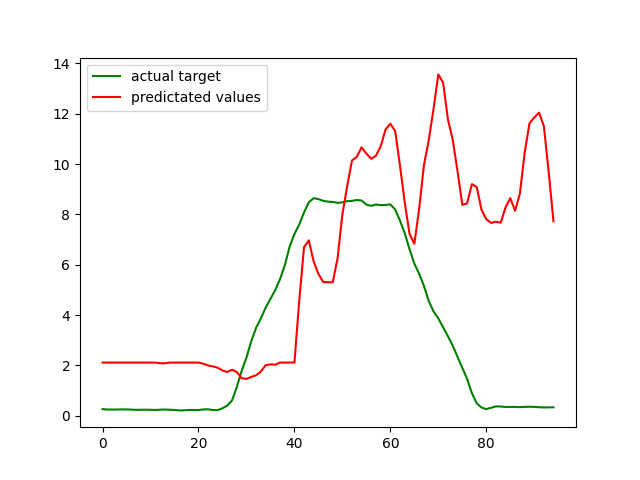
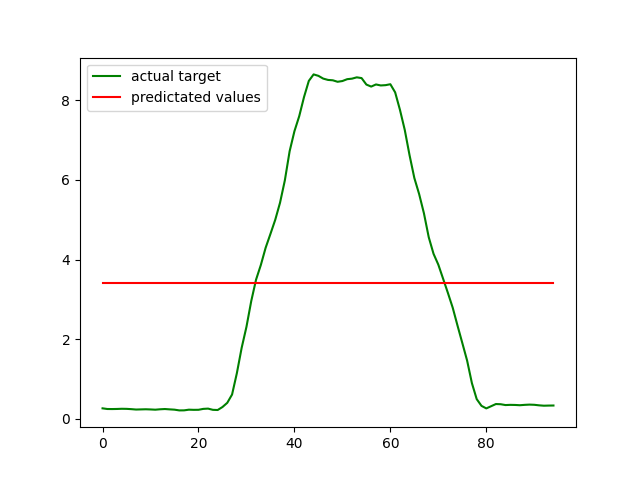
to change the number of muscles included in the features
so far I used only gastrocnemius lateralis

diff --git a/thesisproject_Fede.py b/thesisproject_Fede.py
@@ -59,16 +59,16 @@ for root, dirs, files in os.walk(finalpath):
             sol_channels = len(df_sol.columns);
             
             diff_gl = Differential(df_gl,gl_channels);
-            # diff_p = Differential(df_p,p_channels);
-            # diff_gm = Differential(df_gm,gm_channels);
-            # diff_ta = Differential(df_ta,ta_channels);
-            # diff_sol = Differential_sol(df_sol,sol_channels);
+            diff_p = Differential(df_p,p_channels);
+            diff_gm = Differential(df_gm,gm_channels);
+            diff_ta = Differential(df_ta,ta_channels);
+            diff_sol = Differential_sol(df_sol,sol_channels);
             
             gl_diffchannels = diff_gl.shape[0];
-            # p_diffchannels = diff_p.shape[0];
-            # gm_diffchannels = diff_gm.shape[0];
-            # ta_diffchannels = diff_ta.shape[0];
-            # sol_diffchannels = diff_sol.shape[0];
+            p_diffchannels = diff_p.shape[0];
+            gm_diffchannels = diff_gm.shape[0];
+            ta_diffchannels = diff_ta.shape[0];
+            sol_diffchannels = diff_sol.shape[0];
             
            
    

diff --git a/feedforward.py b/feedforward.py
@@ -78,6 +78,9 @@ def main():
     n_input = X.shape[1] * X.shape[2]    
 
     X = X.reshape((X.shape[0], n_input))
+    print("X shape",X.shape) ### The shape is now number of elements x (n*split input * channels)
+    print(X[100:])
+
 
     # Split of the data
     #train_features, test_features, train_target, test_target = train_test_split(X, Y, test_size = 0.25, random_state = 42, shuffle = False)
